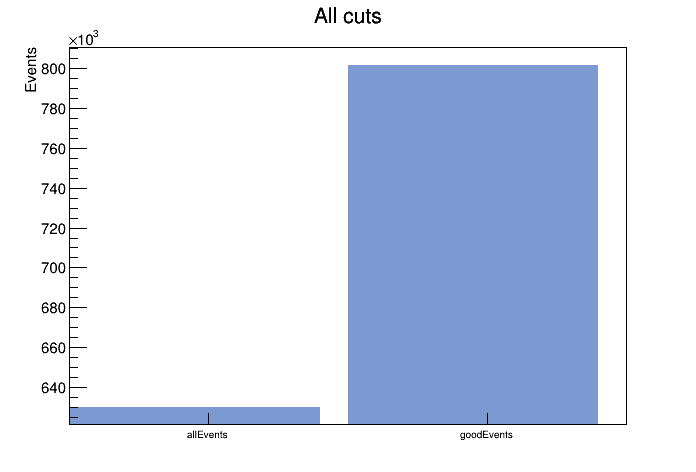
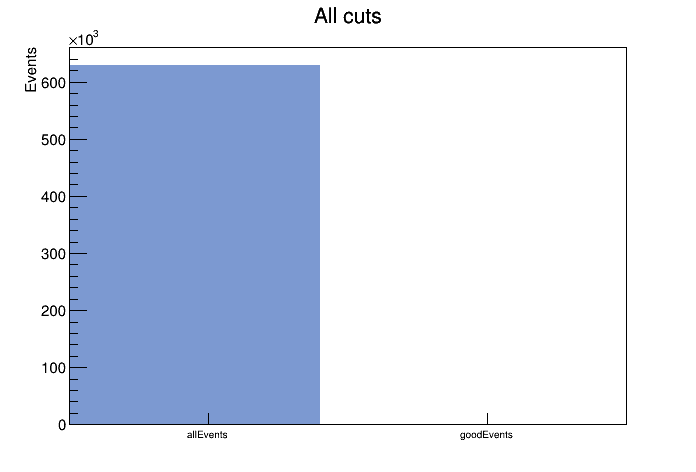
pics

diff --git a/macros/pics/Evt.C b/macros/pics/Evt.C
@@ -1,8 +1,8 @@
 {
 //=========Macro generated from canvas: c1/c1
-//=========  (Thu Nov 23 11:35:18 2017) by ROOT version5.34/34
+//=========  (Thu Nov 23 11:43:38 2017) by ROOT version5.34/34
    TCanvas *c1 = new TCanvas("c1", "c1",0,0,700,500);
-   c1->Range(-0.75,597506.3,1.75,834521.7);
+   c1->Range(-0.75,-82662.17,1.75,743959.5);
    c1->SetFillColor(0);
    c1->SetBorderMode(0);
    c1->SetBorderSize(2);
@@ -11,9 +11,9 @@
    
    TH1F *hisgoodEvent = new TH1F("hisgoodEvent","All cuts",2,-0.5,1.5);
    hisgoodEvent->SetBinContent(1,629807);
-   hisgoodEvent->SetBinContent(2,801791);
+   hisgoodEvent->SetBinContent(2,934);
    hisgoodEvent->SetBarWidth(0.9);
-   hisgoodEvent->SetEntries(1431598);
+   hisgoodEvent->SetEntries(630741);
    hisgoodEvent->SetStats(0);
    hisgoodEvent->SetFillColor(38);
 

diff --git a/macros/pics/Cuts.C b/macros/pics/Cuts.C
@@ -1,6 +1,6 @@
 {
 //=========Macro generated from canvas: c1/c1
-//=========  (Thu Nov 23 11:35:18 2017) by ROOT version5.34/34
+//=========  (Thu Nov 23 11:43:38 2017) by ROOT version5.34/34
    TCanvas *c1 = new TCanvas("c1", "c1",0,0,700,500);
    c1->Range(-1,441498.3,9,594686.6);
    c1->SetFillColor(0);
